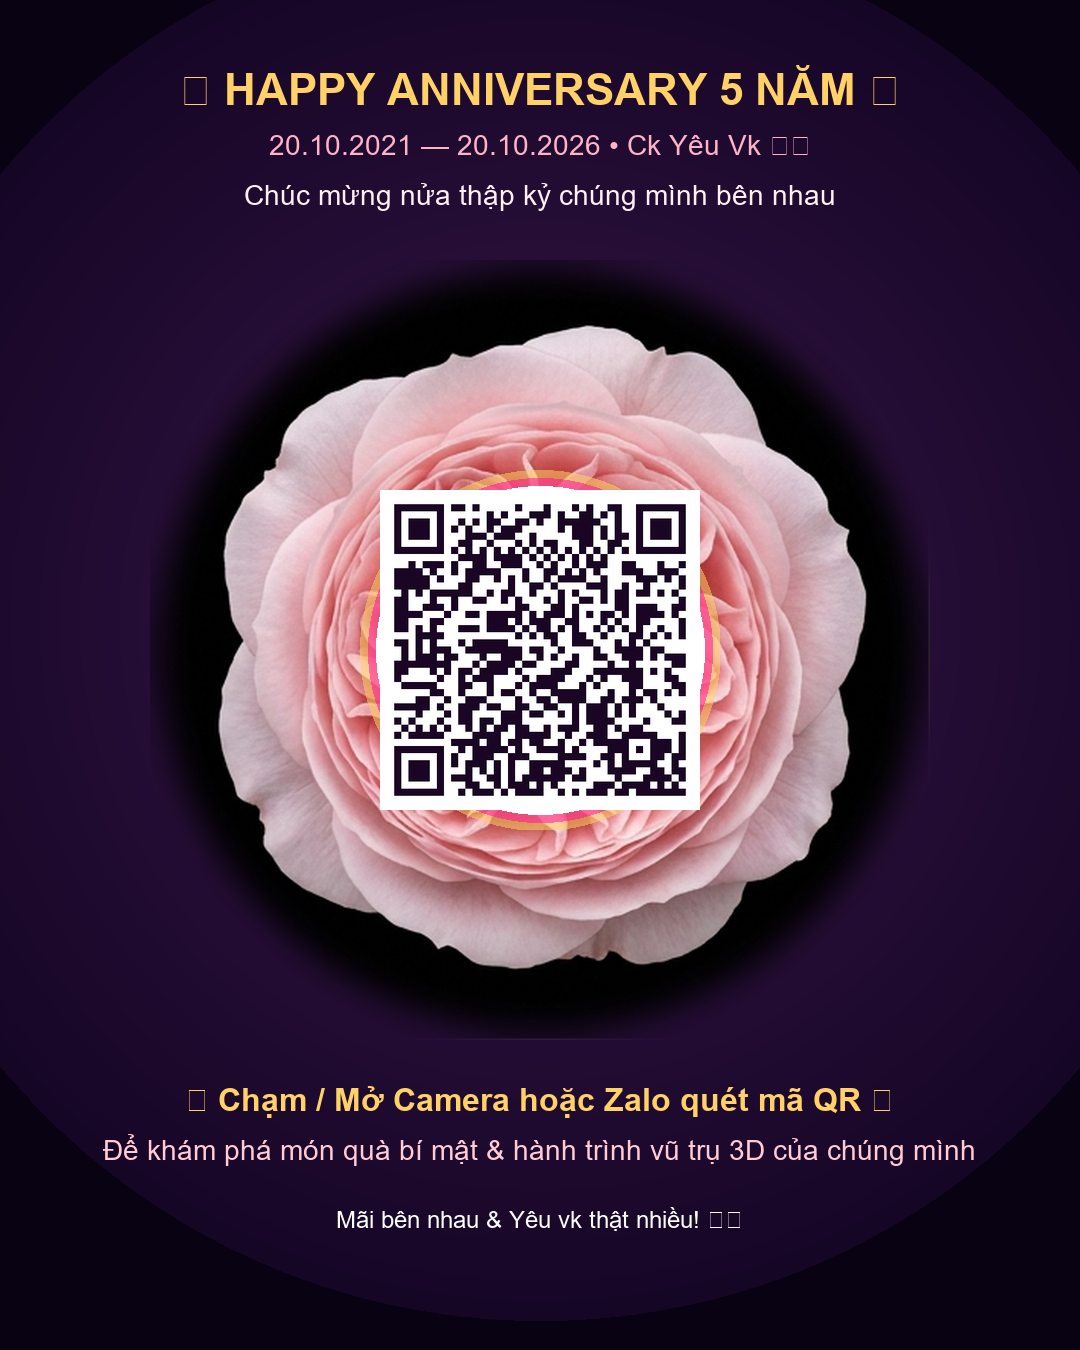
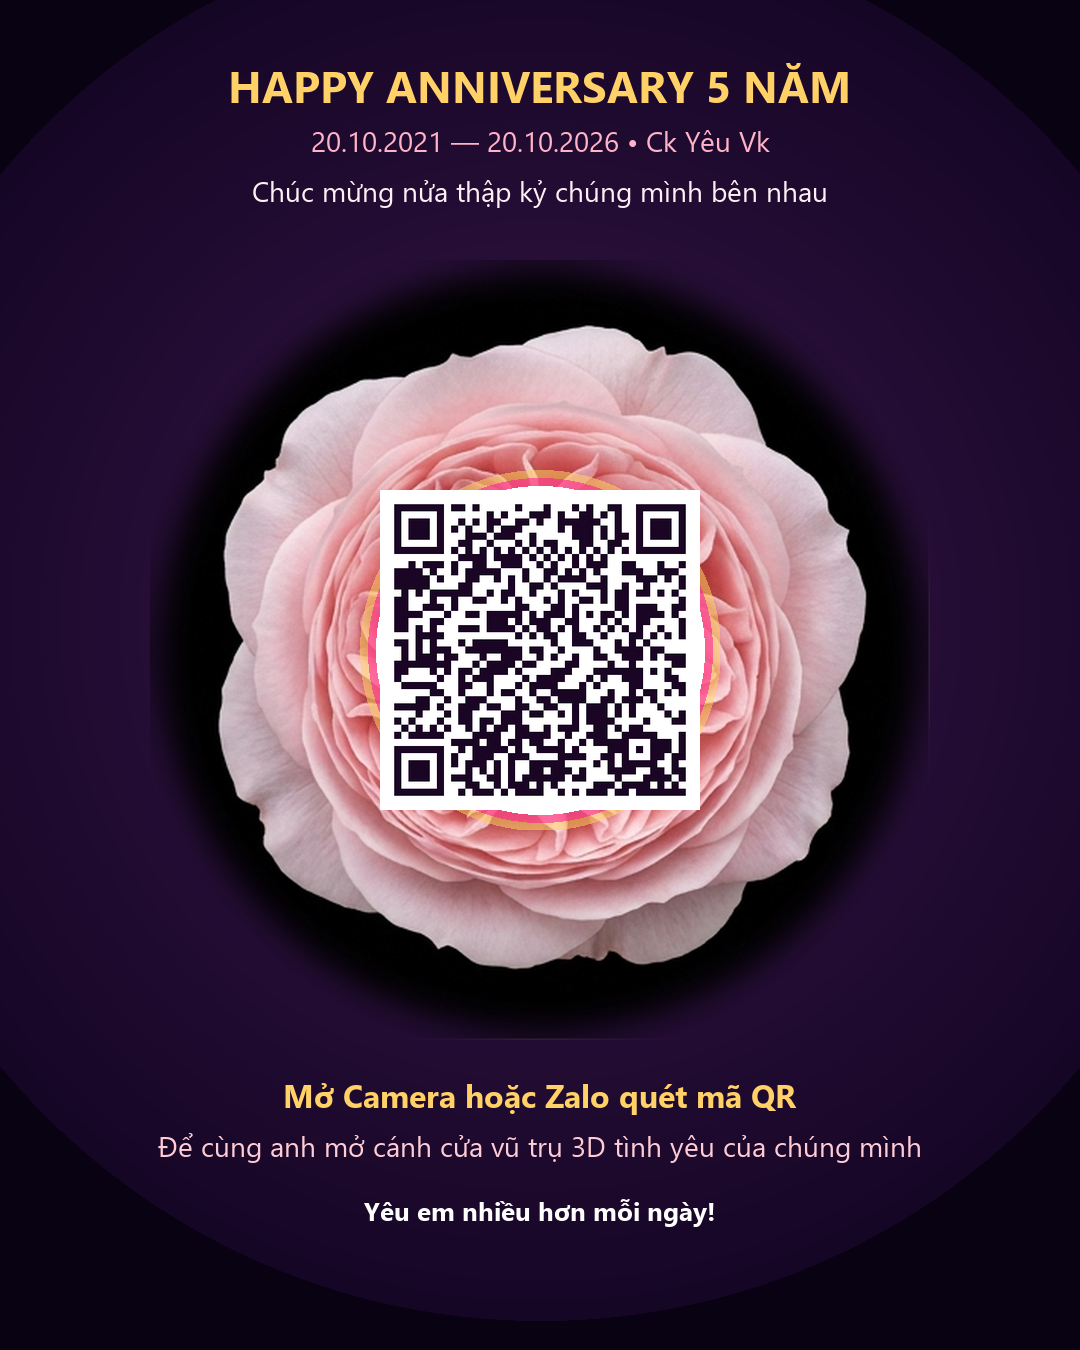
Perfect typography and QR code

Changed region(s): [[0.0917, 0.7778, 0.9167, 0.9333], [0.2139, 0.0311, 0.7944, 0.1556]]

diff --git a/generate_rose_qr.py b/generate_rose_qr.py
@@ -52,25 +52,25 @@ def create_rose_qr(target_url, output_path='Hoa_Hong_QR_Ky_Niem_5_Nam.png'):
 
     draw = ImageDraw.Draw(bg)
     try:
+        font_title = ImageFont.truetype('segoeuib.ttf', 44)
+        font_sub = ImageFont.truetype('segoeui.ttf', 28)
+        font_hint = ImageFont.truetype('segoeuib.ttf', 32)
+        font_note = ImageFont.truetype('segoeuib.ttf', 26)
+    except Exception:
         font_title = ImageFont.truetype('arialbd.ttf', 44)
         font_sub = ImageFont.truetype('arial.ttf', 28)
         font_hint = ImageFont.truetype('arialbd.ttf', 32)
-        font_note = ImageFont.truetype('arial.ttf', 24)
-    except Exception:
-        font_title = ImageFont.load_default()
-        font_sub = font_title
-        font_hint = font_title
-        font_note = font_title
+        font_note = ImageFont.truetype('arialbd.ttf', 26)
 
     # Header texts
-    draw.text((card_w//2, 90), '✨ HAPPY ANNIVERSARY 5 NĂM ✨', fill='#ffd166', font=font_title, anchor='mm')
-    draw.text((card_w//2, 145), '20.10.2021 — 20.10.2026 • Ck Yêu Vk ❤', fill='#ffb3c6', font=font_sub, anchor='mm')
-    draw.text((card_w//2, 195), 'Chúc mừng nửa thập kỷ chúng mình bên nhau', fill='#fff0f5', font=font_sub, anchor='mm')
+    draw.text((card_w//2, 85), 'HAPPY ANNIVERSARY 5 NĂM', fill='#ffd166', font=font_title, anchor='mm')
+    draw.text((card_w//2, 140), '20.10.2021 — 20.10.2026 • Ck Yêu Vk', fill='#ffb3c6', font=font_sub, anchor='mm')
+    draw.text((card_w//2, 190), 'Chúc mừng nửa thập kỷ chúng mình bên nhau', fill='#fff0f5', font=font_sub, anchor='mm')
 
     # Footer texts
-    draw.text((card_w//2, 1100), '🌹 Chạm / Mở Camera hoặc Zalo quét mã QR 🌹', fill='#ffd166', font=font_hint, anchor='mm')
-    draw.text((card_w//2, 1150), 'Để khám phá món quà bí mật & hành trình vũ trụ 3D của chúng mình', fill='#ffccd5', font=font_sub, anchor='mm')
-    draw.text((card_w//2, 1220), 'Mãi bên nhau & Yêu vk thật nhiều! ❤', fill='#ffffff', font=font_note, anchor='mm')
+    draw.text((card_w//2, 1095), 'Mở Camera hoặc Zalo quét mã QR', fill='#ffd166', font=font_hint, anchor='mm')
+    draw.text((card_w//2, 1145), 'Để cùng anh mở cánh cửa vũ trụ 3D tình yêu của chúng mình', fill='#ffccd5', font=font_sub, anchor='mm')
+    draw.text((card_w//2, 1210), 'Yêu em nhiều hơn mỗi ngày!', fill='#ffffff', font=font_note, anchor='mm')
 
     bg.save(output_path, 'PNG')
     print(f'Saved {output_path} for {target_url}')
